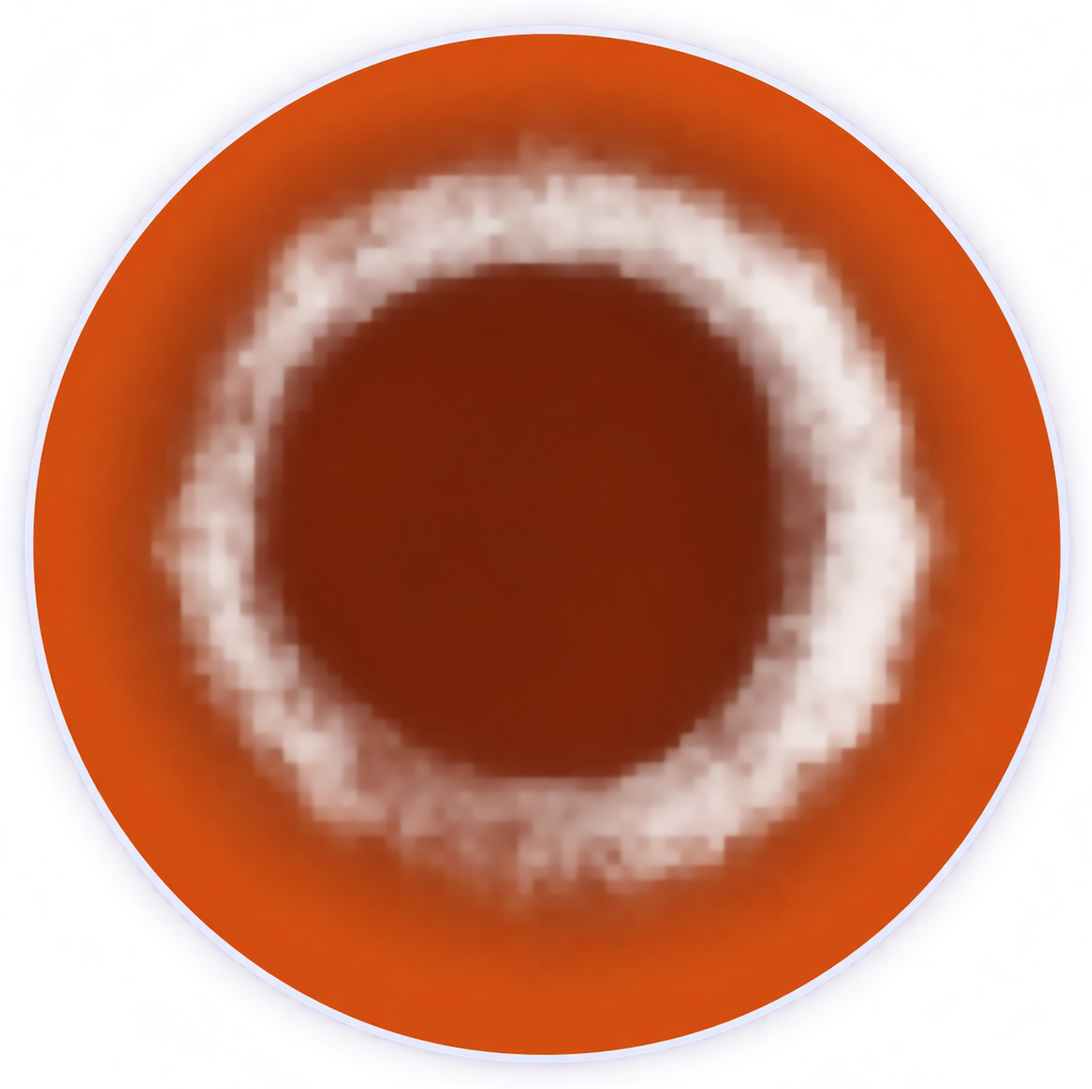
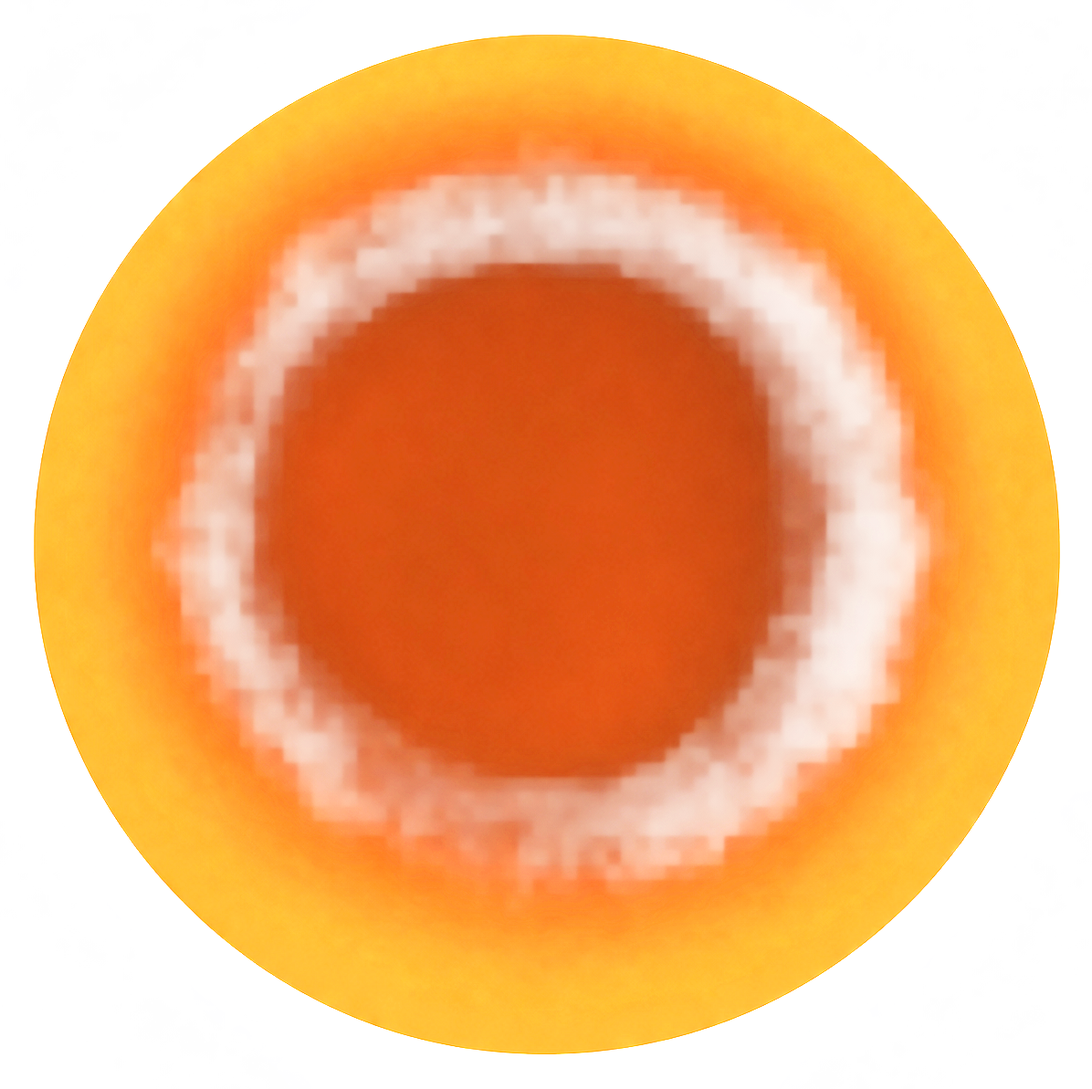
[D08-N] A-28-2 꼬리 둘 — 테두리 못 정했던 여섯 장 확정 + ui-dot 속 색 보정
UI 키트에서 9-slice 테두리를 못 정하고 미뤄 뒀던 여섯 장을 전부 정했다.
07시 세션이 ui-popup-title에 쓴 방법(알파를 열·행으로 훑어 띠가 일정해지는
구간을 찾는다)을 tools/scan_ui_border.py로 옮기고, 바둑판 바탕에 얹어 눈으로 봤다.

  ui-slot-a   (95, 95, 95, 95)      둥근 사각
  ui-slot-b   (88, 88, 88, 88)      둥근 사각
  ui-slot-s   (96, 108, 97, 190)    위쪽 보석 장식 때문에 위만 크다
  ui-tooltip  (106, 204, 104, 111)  아래 말풍선 꼬리 때문에 아래만 크다
  ui-tab-on   (160, 0, 153, 151)    아래가 직선으로 잘려 있어 0
  ui-tab-off  (153, 0, 148, 157)    같음

자동 측정이 틀렸던 진짜 이유는 가운데 장식이 아니라 테두리의 소프트 글로우였다.
빛이 바깥으로 번져서 거기서 판정이 멈추니 좌우 합이 그림 크기를 넘었다.

확인: GemRacer/91로 26장 다시 임포트 → execute_code로 여섯 장의 spriteBorder가
실제로 들어간 것 확인 → 9-slice를 흉내 내 정사각 120 · 가로 320x96 · 세로 120x260
세 크기로 뽑아 눈으로 봤다. 모서리·보석·꼬리 모두 안 찌그러진다.

ui-dot 속 색(#731F04 → #D94D0F)도 고쳤다. backlog에 적혀 있던 "Image.color로
곱한다"는 안 되는 방법이었다 — uGUI의 Image.color는 곱셈이라 색을 밝게 못 만든다.
tools/relight_sprite.py로 채널별 배수를 곱해 그림 자체를 고쳤고 check_alpha.py를 통과한다.

남은 진행 막대(ui-bar-frame·ui-bar-fill)는 트랙 높이를 키우는 레이아웃 결정이
먼저라 docs/decisions.md에 A/B/C안으로 올리고 backlog를 - [?]로 바꿨다.

씬은 열지 않았고 플레이도 안 했다. 코어 테스트 459 / 실패 0.

diff --git a/PlanetRacer/Assets/Editor/ArtImportSettings.cs b/PlanetRacer/Assets/Editor/ArtImportSettings.cs
@@ -108,12 +108,36 @@ namespace GemRacer.EditorTools
                 // `ui-btn-close`(X 단추)·`ui-badge-new`·`ui-dot`은 비율을 지켜 통째로 쓰고
                 // `ui-bar-fill`은 채우기(Filled)로 쓴다. 테두리를 넣으면 모양이 늘어난다.
                 //
-                // **측정이 못 믿을 값을 준 것들**(`ui-tooltip`·`ui-tab-on/off`·`ui-slot-a/b/s`):
-                // 좌우 또는 위아래 합이 그림 크기를 넘는다. (`ui-chip`은 10-16 05시,
-                // `ui-popup-title`은 10-16 07시 세션이 눈으로 보고 정해서 빠졌다 — 위 두 묶음.)
-                // 가운데에 장식(말풍선 꼬리·등급 테두리 돌기)이 있어서
-                // "가운데와 같아지는 첫 열" 판정이 거기서 멈춘다. ui-tab과 같은 처리를 한다 —
-                // **그 그림을 쓰는 화면을 배선하는 세션이 눈으로 보고 정한다.**
+                // --- 남아 있던 여섯 장 (2026-10-16 19시 Unity 배선 세션) ----------------
+                // 「측정이 못 믿을 값을 준 것들」로 미뤄 뒀던 마지막 묶음이다. 07시 세션이
+                // `ui-popup-title`에 쓴 방법(알파를 열·행으로 훑어 띠가 일정해지는 구간을 찾는다)을
+                // `tools/scan_ui_border.py`로 옮겨서 쟀고, 그 위에 그림을 실제로 눈으로 보고 정했다.
+                // measure_ui_border.py가 틀렸던 이유는 가운데 장식이 아니라 **테두리가 소프트 글로우**라
+                // 바깥으로 번지기 때문이다 — 번진 쪽에서 판정이 멈춰 좌우 합이 그림 크기를 넘었다.
+                //
+                // 넷은 둥근 사각이라 사방을 같은 값으로 둔다(기존 `ui-slot-c`가 804px에 67 =
+                // 8.3%인 것과 같은 비율이다). 둘은 가운데 장식 때문에 한쪽만 크다.
+                case "ui-slot-a":         return new Vector4(95f, 95f, 95f, 95f);    // 파란 테 둥근 사각
+                case "ui-slot-b":         return new Vector4(88f, 88f, 88f, 88f);    // 청록 테, 모양은 a와 같다
+
+                // ui-slot-s는 **위쪽 가운데에 보석 장식**이 하나 솟아 있다(y=0~80, x=473~612).
+                // 위 테두리를 190으로 잡아 보석과 위 두 귀를 통째로 넣는다 — 그래도 보석이
+                // 「위-가운데」 칸에 들어가니 칸이 가로로 길어지면 보석도 같이 늘어난다.
+                // 슬롯은 거의 정사각으로 쓰니 지금은 문제가 안 되지만, 가로로 긴 자리에 쓸 거면
+                // 보석을 따로 얹는 편이 낫다.
+                case "ui-slot-s":         return new Vector4(96f, 108f, 97f, 190f);
+
+                // ui-tooltip은 **아래 가운데에 말풍선 꼬리**가 달려 있다(몸통은 y=817까지, 꼬리가 923까지).
+                // 아래 테두리 204는 몸통 아래 모서리 + 꼬리를 함께 덮는 값이다. 보석과 같은 사정이라
+                // 말풍선이 가로로 넓어지면 꼬리도 넓어진다 — 꼬리 위치를 고정해야 하는 화면은
+                // 꼬리를 떼어 따로 얹는다.
+                case "ui-tooltip":        return new Vector4(106f, 204f, 104f, 111f);
+
+                // 탭 둘은 **위 모서리만 둥글고 아래는 직선으로 잘려 있다.** 그래서 아래는 0이다
+                // (기존 `ui-tab` 임시값 (120,4,120,4)을 이 둘이 대신한다 — 탭을 쓰는 화면이
+                // 생기면 `ui-tab`이 아니라 on/off 두 장을 쓴다).
+                case "ui-tab-on":         return new Vector4(160f, 0f, 153f, 151f);
+                case "ui-tab-off":        return new Vector4(153f, 0f, 148f, 157f);
                 default:                  return null;
             }
         }

diff --git a/tools/scan_ui_border.py b/tools/scan_ui_border.py
@@ -1,0 +1,96 @@
+# 9-slice 테두리를 알파 띠로 찾는다 (2026-10-16, A-28-2 「테두리 못 정한 그림 다섯」)
+#
+# measure_ui_border.py는 가운데 장식(말풍선 꼬리·등급 돌기·리본 매듭)에서 판정이 멈춰서
+# 좌우 합이 그림 크기를 넘는 값을 내놓는 장이 있다. 2026-10-16 07시 세션이 `ui-popup-title`을
+# 정할 때 쓴 방법이 더 잘 들어서 그걸 스크립트로 옮겼다 — **알파를 열별로 훑어
+# 띠 높이(위·아래 끝)가 일정해지는 구간**을 찾고, 그 바깥을 테두리로 잡는다.
+# 늘어나도 되는 곳은 "모양이 변하지 않는 평평한 구간"이라는 뜻이다.
+#
+#   python tools/scan_ui_border.py PlanetRacer/Assets/Resources/Art/UI/Kit/ui-tooltip.png ...
+#
+# 찍어 주는 것: 가장 긴 평평 구간, 거기서 나온 Vector4(left, bottom, right, top),
+# 그리고 열·행별 끝값을 20칸으로 줄인 표(눈으로 한 번 더 보라고).
+import sys
+
+from PIL import Image
+
+A_MIN = 40          # 이 위면 "있다"로 본다 (ui_alpha_map.py의 '+' 기준과 같게)
+
+
+def band(alpha, w, h, by_column):
+    """열(또는 행)마다 불투명 구간의 시작·끝을 돌려준다. 빈 줄은 None."""
+    out = []
+    n, m = (w, h) if by_column else (h, w)
+    for i in range(n):
+        lo, hi = None, None
+        for j in range(m):
+            v = alpha[i, j] if by_column else alpha[j, i]
+            if v > A_MIN:
+                if lo is None:
+                    lo = j
+                hi = j
+        out.append(None if lo is None else (lo, hi))
+    return out
+
+
+def longest_flat(bands, tol=1):
+    """끝값이 거의 그대로인 가장 긴 구간 (start, end) 을 찾는다. tol은 허용 흔들림(px)."""
+    best = (0, -1)
+    i = 0
+    n = len(bands)
+    while i < n:
+        if bands[i] is None:
+            i += 1
+            continue
+        lo, hi = bands[i]
+        j = i + 1
+        while j < n and bands[j] is not None \
+                and abs(bands[j][0] - lo) <= tol and abs(bands[j][1] - hi) <= tol:
+            j += 1
+        if j - 1 - i > best[1] - best[0]:
+            best = (i, j - 1)
+        i = j
+    return best
+
+
+def digest(bands, cells=20):
+    """끝값 표를 cells칸으로 줄여 찍는다."""
+    n = len(bands)
+    rows = []
+    for k in range(cells):
+        i = min(n - 1, k * n // cells)
+        b = bands[i]
+        rows.append("%4d:%s" % (i, "----" if b is None else "%d-%d" % b))
+    return "  ".join(rows)
+
+
+def main():
+    if len(sys.argv) < 2:
+        print("쓰는 법: python tools/scan_ui_border.py <png> [<png> ...]")
+        return 2
+    for path in sys.argv[1:]:
+        im = Image.open(path).convert("RGBA")
+        w, h = im.size
+        alpha = im.split()[3].load()
+
+        cols = band(alpha, w, h, True)
+        rows = band(alpha, w, h, False)
+        cl, cr = longest_flat(cols)      # x 방향 평평 구간 → 좌·우 테두리
+        rt, rb = longest_flat(rows)      # y 방향 평평 구간 → 위·아래 테두리
+
+        left, right = cl, w - 1 - cr
+        top, bottom = rt, h - 1 - rb     # PNG는 위가 y=0, Unity 테두리는 (왼,아래,오른,위)
+
+        print("== %s  %dx%d" % (path.split("/")[-1], w, h))
+        print("   열 평평 구간 x=%d~%d (%d칸)  → 왼 %d · 오른 %d" % (cl, cr, cr - cl + 1, left, right))
+        print("   행 평평 구간 y=%d~%d (%d칸)  → 위 %d · 아래 %d" % (rt, rb, rb - rt + 1, top, bottom))
+        ok = (left + right) < w and (top + bottom) < h
+        print("   Vector4(%df, %df, %df, %df)   %s"
+              % (left, bottom, right, top, "" if ok else "← 합이 크기를 넘는다. 눈으로 볼 것"))
+        print("   열 끝값: " + digest(cols))
+        print("   행 끝값: " + digest(rows))
+    return 0
+
+
+if __name__ == "__main__":
+    raise SystemExit(main())

diff --git a/tools/relight_sprite.py b/tools/relight_sprite.py
@@ -1,0 +1,61 @@
+# 그림의 바탕색을 원하는 색으로 끌어올린다 (2026-10-16, A-28-2 `ui-dot` 때문에 만들었다)
+#
+# GPT가 준 키트 그림 중에 속 색이 의도보다 어둡게 나온 장이 있다(`ui-dot`: #731F04,
+# 원하는 건 #D94D0F). backlog에는 "`Image.color`로 곱하라"고 적혀 있었지만 **uGUI의
+# `Image.color`는 곱셈이라 색을 밝게 만들 수 없다** — 어둡게만 된다. 그래서 그림 자체를 고친다.
+#
+#   python tools/relight_sprite.py <png> --from 731F04 --to D94D0F [--write]
+#
+# 채널별 배수(목표/현재)를 곱한다. 바탕색은 정확히 목표색이 되고, 이미 밝은 하이라이트는
+# 255에서 잘려 흰색으로 남는다(점 하나짜리 그림이라 이게 더 자연스럽다). 알파는 건드리지 않는다.
+import argparse
+
+from PIL import Image
+
+
+def hex2rgb(s):
+    s = s.lstrip("#")
+    return tuple(int(s[i:i + 2], 16) for i in (0, 2, 4))
+
+
+def main():
+    ap = argparse.ArgumentParser()
+    ap.add_argument("path")
+    ap.add_argument("--from", dest="src", required=True, help="지금 바탕색 (RRGGBB)")
+    ap.add_argument("--to", dest="dst", required=True, help="원하는 바탕색 (RRGGBB)")
+    ap.add_argument("--write", action="store_true", help="실제로 덮어쓴다. 없으면 미리보기만")
+    a = ap.parse_args()
+
+    src, dst = hex2rgb(a.src), hex2rgb(a.dst)
+    k = [dst[i] / max(1, src[i]) for i in range(3)]
+    print("배수 R×%.3f G×%.3f B×%.3f" % tuple(k))
+
+    im = Image.open(a.path).convert("RGBA")
+    r, g, b, al = im.split()
+    out = Image.merge("RGBA", (
+        r.point(lambda v: min(255, int(v * k[0] + 0.5))),
+        g.point(lambda v: min(255, int(v * k[1] + 0.5))),
+        b.point(lambda v: min(255, int(v * k[2] + 0.5))),
+        al))
+
+    w, h = im.size
+    px = out.load()
+    tot, n = [0, 0, 0], 0
+    for y in range(h // 2 - h // 8, h // 2 + h // 8):
+        for x in range(w // 2 - w // 8, w // 2 + w // 8):
+            pr, pg, pb, pa = px[x, y]
+            if pa > 200:
+                tot[0] += pr; tot[1] += pg; tot[2] += pb; n += 1
+    print("고친 뒤 속 평균 #%02X%02X%02X (원하던 것 #%02X%02X%02X)"
+          % (tot[0] // n, tot[1] // n, tot[2] // n, dst[0], dst[1], dst[2]))
+
+    if a.write:
+        out.save(a.path)
+        print("덮어썼다:", a.path)
+    else:
+        print("미리보기만 했다. 실제로 고치려면 --write")
+    return 0
+
+
+if __name__ == "__main__":
+    raise SystemExit(main())

diff --git a/docs/daily/2026-10-16.md b/docs/daily/2026-10-16.md
@@ -332,3 +332,48 @@
 ### 19:15 세션 (평일 야간)
 - 한 일: feedback `- [ ]` 없음. 18시 세션 이후 새 커밋이 없고 backlog 남은 항목(A-17·18·19·23·25~27)은 여전히 Unity 씬 배선·이미지가 필요해 코드 단독으로 할 일이 없다. 코드는 안 건드렸다.
 - 이어서 할 것: Unity 배선 세션에서 A-28-2 꼬리. 코드 단독 항목 바닥남 3회 연속(07시·18시·19시) — backlog가 사실상 비었다.
+### 19:0x Unity 배선 세션 — A-28-2 꼬리 둘 (테두리 여섯 장 · `ui-dot` 색)
+
+- **0절 표식은 이번에도 0건이었지만 할 일이 있었다.** `씬 배선은 Unity 세션 필요`는
+  `docs/backlog.md`·`docs/feedback.md` 둘 다 0건(걸리는 줄은 전부 지난 세션들의 「0건」 기록이다).
+  그런데 바로 앞 18:15 야간 세션이 **「다음 Unity 배선 세션에서 A-28-2 꼬리」**라고 넘겨 두었고,
+  남은 backlog(A-17·A-18·A-19·A-23·A-25~27)도 전부 배선·아트 대기다. 미루지 않고 그걸 집었다.
+- **시작할 때 작업 트리가 또 어긋나 있었다 — 07시 세션과 같은 일이다.** `git checkout -B claude/dev`가
+  `.git/HEAD.lock`을 못 지워 `fatal: unable to update HEAD`로 끝났고(HEAD 자체는 `e08f3e3`으로
+  옮겨졌다), 오늘 daily만 18:15 블록 네 줄이 빠진 옛 내용으로 남아 있었다. 이번엔 **PowerShell로
+  `.git` 아래 `*.lock` 두 개를 지우고**, 빠진 네 줄은 `git show HEAD:<경로> | tail -4 >> <경로>`로
+  이어 붙였다(`git checkout --`는 자동 승인 정책에 막힌다 — 덧붙이기는 지우기가 아니라서 통한다).
+  **이 사고가 오늘만 두 번째다.** 연결 폴더에 삭제 권한이 없는 한 매 세션 반복되니, 0절 다음에
+  `git status`를 꼭 한 번 보고 시작할 것.
+- **테두리를 못 정했던 여섯 장을 전부 정했다.** 07시 세션이 `ui-popup-title`에 쓴 방법(알파를
+  열·행으로 훑어 띠가 일정해지는 구간을 찾는다)을 `tools/scan_ui_border.py`로 옮기고, 여섯 장을
+  바둑판 바탕에 얹어 눈으로 봤다. **자동 측정이 틀렸던 진짜 이유는 가운데 장식이 아니라 테두리의
+  소프트 글로우였다** — 빛이 바깥으로 번져 거기서 판정이 멈추니 좌우 합이 그림 크기를 넘었다.
+  `ui-slot-a`(95 사방) · `ui-slot-b`(88 사방) · `ui-slot-s`(96,108,97,**190** — 위쪽 보석 장식) ·
+  `ui-tooltip`(106,**204**,104,111 — 아래 말풍선 꼬리) · `ui-tab-on`(160,**0**,153,151) ·
+  `ui-tab-off`(153,**0**,148,157 — 탭 둘은 아래가 직선으로 잘려 있다).
+- **확인을 두 겹으로 했다.** `GemRacer/91`로 26장 다시 임포트(로그 "26장") → `execute_code`로 여섯 장의
+  `spriteBorder`가 실제로 들어갔는지 읽어 확인 → 9-slice를 그대로 흉내 내 **정사각 120 · 가로 320x96 ·
+  세로 120x260** 세 크기로 뽑아 눈으로 봤다. 세 크기 모두 모서리·보석·꼬리가 안 찌그러진다.
+  **처음 한 번은 잘못 봤다** — 원본 해상도(999px)에 테두리 95를 넣고 120px 칸에 그려서 전부
+  마름모로 뭉개졌다. 유니티는 임포트에서 256으로 줄이므로 테두리도 24쯤이 된다. 같은 실수를 할
+  다음 세션을 위해 적어 둔다: **미리보기는 반드시 임포트된 크기(256)로 그릴 것.**
+- **`ui-dot` 속 색을 고쳤다 — backlog에 적혀 있던 방법은 안 되는 방법이었다.** 「`Image.color`로
+  곱한다」고 돼 있었는데 uGUI의 `Image.color`는 **곱셈이라 색을 밝게 못 만든다**(`#731F04` →
+  `#D94D0F`는 밝아지는 방향이다). 그래서 `tools/relight_sprite.py`를 만들어 그림 자체를 고쳤다
+  (채널별 R×1.89 G×2.57 B×3.75). 속 평균 `#731E04` → `#DA4E0F`, 하이라이트는 255에서 잘려
+  흰 점으로 남는다. `check_alpha.py` 통과(투명 22%, 모서리 0). **다시 뽑을 필요는 없어졌지만**,
+  이미지 세션이 이 장을 새로 뽑으면 보정이 날아가니 그때는 프롬프트에 `#D94D0F`를 박아야 한다.
+- **남은 하나는 Tifania 결정으로 올렸다.** 진행 막대(`ui-bar-frame`·`ui-bar-fill`) 두 장만 쓸 자리가
+  없는데, 지금 트랙이 14px(레이스 도착 연출)·10px(화물칸 게이지)이라 키트 막대의 둥근 끝이
+  찌그러진다. `docs/decisions.md`에 **「A-28-2 진행 막대를 어디에 쓸까」** A/B/C안으로 올렸다
+  (A: 트랙을 22~24px로 키운다 / B: 막대 두 장을 안 쓴다 / C: 얇은 막대용으로 한 장 더 뽑는다).
+  추천은 A안이지만 레이스 출전 화면 세 줄이 밀리는지는 눈으로 봐야 한다. backlog 항목은 `- [?]`로 바꿨다.
+- **씬은 열지 않았고 플레이도 안 했다.** 이번 건은 임포트 설정과 그림 파일만 바뀌어서 씬에 손댈 것이
+  없었다. 그래서 `Pretendard-Regular SDF.asset`도 그대로다(플레이를 안 했으니 글리프 표가 안 날아간다).
+  다만 **이 세션이 Unity를 직접 띄웠으니 닫은 뒤에 한 번 더 본다**(CLAUDE.md 10-14 항목).
+- **코어 테스트 459 / 실패 0** (PC PowerShell에서 `dotnet run`. device_bash 쪽 VM에는 dotnet이 없다).
+- **웹에서 볼 변화**: 거의 없다. 여섯 장 모두 아직 어느 화면도 안 쓰고, `ui-dot`도 붙은 자리가 없다.
+  **다음에 그 그림들을 쓰는 화면이 생길 때 비로소 보인다.** 확인 주소를 열어 볼 필요는 없는 차례다.
+- 이어서 할 것: A-28-2는 진행 막대 결정 하나만 남았다(Tifania). 그 밖의 Unity 배선 거리는
+  A-18(행성 선택·워프) · A-19(컷신) · A-26(타이틀 화면) · A-27(레이싱 씬 2D)이고 셋은 아트가 먼저다.

diff --git a/docs/backlog.md b/docs/backlog.md
@@ -668,18 +668,40 @@ Tifania(10-07): "UI 도 gpt이미지 통해서 생성해서 넣자".
             플레이 예외 0, 세로(540x960) 스크린샷 둘(오프라인 보상·제작) 확인, 오버레이 열아홉 그대로,
             `MainHudUgui` 패널 칸 빈 곳 0. **화면 부트스트랩을 다시 누르면 그 화면 리본은 사라진다 —
             `GemRacer/45`를 한 번 더 누르면 된다**(멱등).
-      - [ ] **테두리를 못 정한 그림 다섯**(`ui-tooltip`·`ui-tab-on/off`·`ui-slot-a/b/s`).
-            자동 측정이 좌우 또는 위아래 합이 그림 크기를 넘는 값을 줬다 — 가운데 장식(리본 매듭·
-            말풍선 꼬리·등급 테두리 돌기)에서 판정이 멈춘다. `ui-tab`과 같은 처리다: **그 그림을 쓰는 화면을
-            배선하는 세션이 눈으로 보고 정한다.**
+      - [x] **테두리를 못 정한 그림 다섯 — 2026-10-16 19시 Unity 배선 세션이 여섯 장 다 정했다.**
+            07시 세션이 `ui-popup-title`에 쓴 「알파를 열·행으로 훑어 띠가 일정해지는 구간을 찾는다」를
+            `tools/scan_ui_border.py`로 옮기고, 여섯 장을 바둑판 바탕에 얹어 **눈으로 보고** 정했다.
+            `ui-slot-a` (95,95,95,95) · `ui-slot-b` (88,88,88,88) · `ui-slot-s` (96,108,97,190) ·
+            `ui-tooltip` (106,204,104,111) · `ui-tab-on` (160,0,153,151) · `ui-tab-off` (153,0,148,157).
+            **자동 측정이 틀렸던 진짜 이유는 가운데 장식이 아니라 테두리의 소프트 글로우였다** —
+            빛이 바깥으로 번져서 거기서 판정이 멈추고 좌우 합이 그림 크기를 넘었다. 넷은 둥근 사각이라
+            사방을 같은 값으로 뒀고(`ui-slot-c`의 8.3%와 같은 비율), `ui-slot-s`는 위쪽 보석 장식 때문에
+            위만 190, `ui-tooltip`은 아래 말풍선 꼬리 때문에 아래만 204다. 탭 둘은 아래가 직선으로
+            잘려 있어 아래 0이다(기존 `ui-tab` 임시값을 이 둘이 대신한다).
+            **확인**: `GemRacer/91`로 26장 다시 임포트 → `execute_code`로 여섯 장의 `spriteBorder`가
+            실제로 들어간 것 확인 → 9-slice를 그대로 흉내 내서 정사각 120 · 가로 320x96 · 세로 120x260
+            세 크기로 뽑아 눈으로 봤다(`Assets/Screenshots/a28-2-kit-slice-test.png`, 커밋 안 됨).
+            세 크기 모두 모서리·보석·꼬리가 안 찌그러진다.
+            **한 가지 남는 흠**(테두리 문제가 아니라 그림 자체): `ui-slot-b`와 `ui-tab-on`은 속에
+            너덜너덜한 어두운 얼룩이 들어 있어서 늘리면 그게 같이 번진다. 쓰는 화면이 생겼을 때
+            거슬리면 그 두 장만 다시 뽑으면 된다.
             **`ui-chip`은 2026-10-16 05시 세션이 정했다**(`270, 0, 150, 0` — 「칩 왼쪽 보석」으로 적혀 있던
             것은 보석이 아니라 **아이콘이 들어앉는 홈**이었다). 일곱에서 여섯으로 줄었다.
             **`ui-popup-title`은 10-16 07시 세션이 정했다**(`125, 0, 124, 0`). 알파를 열별로 훑어
             띠 높이가 일정해지는 지점(x=125 ~ x=1100)을 찾았다 — 눈대중보다 이 쪽이 빠르고 정확했으니
             남은 다섯도 같은 방법을 먼저 써 볼 것. 여섯에서 다섯으로 줄었다.
-      - [ ] **`ui-dot` 속 색이 어둡다**(`#731F04`, 원하는 건 `#D94D0F`). A-28-1이 넘긴 그대로다 —
-            알림 점을 붙이는 세션이 `Image.color`로 곱하거나 한 장 다시 뽑는다.
-      - [ ] **진행 막대(`ui-bar-frame`·`ui-bar-fill`)는 아직 자리가 없다.** 레이스 출전 화면의 도착 연출
+      - [x] **`ui-dot` 속 색 — 2026-10-16 19시 Unity 배선 세션이 그림을 직접 고쳤다.**
+            **여기 적혀 있던 「`Image.color`로 곱한다」는 안 되는 방법이었다** — uGUI의 `Image.color`는
+            곱셈이라 색을 어둡게만 할 수 있고 `#731F04`를 `#D94D0F`로 **밝게** 올릴 수가 없다.
+            그래서 `tools/relight_sprite.py`(새로 만듦)로 채널별 배수(R×1.89 G×2.57 B×3.75)를 곱해
+            그림 자체를 고쳤다. 속 평균이 `#731E04` → `#DA4E0F`(목표 `#D94D0F`)가 됐고
+            하이라이트는 255에서 잘려 흰 점으로 남는다. `check_alpha.py` 통과(투명 22%, 모서리 0).
+            다시 뽑을 필요는 없어졌다 — 이미지 세션이 이 장을 새로 뽑으면 이 보정이 날아가니
+            뽑게 되면 프롬프트에 속 색을 `#D94D0F`로 박아 둘 것.
+      - [?] **진행 막대(`ui-bar-frame`·`ui-bar-fill`)는 아직 자리가 없다 — Tifania 결정 대기.**
+            2026-10-16 19시 세션이 `docs/decisions.md`에 「A-28-2 진행 막대를 어디에 쓸까」로
+            A/B/C안을 올렸다(요지: 트랙 높이를 22~24px로 키울지). **이 묶음에서 이것 하나만 남았다.**
+            아래는 10-13 03시 세션이 보류하면서 적어 둔 원인 그대로다. 레이스 출전 화면의 도착 연출
             막대(`anim-track-{i}`·`anim-fill-{i}`)가 키트 막대를 쓸 첫 자리인데, 10-13 03시 세션이 보류했다.
             이유 둘: (1) 트랙 높이가 **14px**뿐이라 `ui-bar-frame`의 위아래 테두리 합(256분의 126)이
             들어갈 자리가 없다 — `SliceMultiplier`가 칸의 90%로 눌러 주긴 하지만 둥근 끝이 찌그러진다.

diff --git a/docs/decisions.md b/docs/decisions.md
@@ -1355,3 +1355,28 @@ A/B/C는 서로 다른 축이라 조합해서 고를 수 있다(예: A안 + C안
 - **B안 — 던전용 채굴을 따로 돌린다(현재 행성을 안 바꿈).** 가장 안전하지만 채굴 시뮬레이터 호출부를 하나 더 만든다.
 
 추천은 **① A안, ② B안** — 둘 다 "던전이 본 진행을 건드리지 않는다"는 쪽이다. 정해지면 밤 세션이 코드로 붙인다.
+
+## 판단 대기 — A-28-2 진행 막대를 어디에 쓸까 (2026-10-16 19시 Unity 배선 세션)
+
+UI 키트 20장 중 **`ui-bar-frame`·`ui-bar-fill` 두 장만 아직 쓸 자리가 없다.** 다른 열여덟 장은
+전부 화면에 붙었고 「회색 상자 0」도 이미 만족한다. 막대만 남은 이유가 둘인데, 하나는 결정이 필요하다.
+
+**① 지금 있는 막대들이 너무 얇다 — 키울까**
+키트 막대는 위아래 테두리가 256분의 126이라 **14px짜리 칸에 넣으면 둥근 끝이 찌그러진다.**
+해당하는 곳은 레이스 출전 화면의 도착 연출 막대(`anim-track-*`, 14px)와 HUD 화물칸 게이지
+(`cargo-gauge-track`, 10px)다.
+
+- **A안 — 트랙 높이를 22~24px로 키우고 키트 막대를 쓴다.** 키트가 통일되고 막대가 또렷해진다.
+  **대가**: 레이스 출전 화면의 코스 세 줄이 줄당 8~10px씩 높아진다. 세로 540x960에서
+  한 줄이 화면 밖으로 밀릴 수 있어 줄 간격을 같이 줄여야 한다.
+- **B안 — 지금 높이를 그대로 두고 막대 두 장을 안 쓴다.** 손댈 것이 없다.
+  **대가**: 키트 20장 중 2장이 영영 안 쓰인다. 막대만 단색이라 화면에서 눈에 띈다.
+- **C안 — 얇은 막대용으로 한 장 더 뽑는다**(위아래 테두리가 얕은 버전).
+  **대가**: 이미지 세션 한 번. 키트에 비슷한 그림이 두 벌이 된다.
+
+추천은 **A안** — 14px·10px은 모바일 세로에서 어차피 좀 가늘다. 다만 레이아웃이 밀리는지는
+붙여 보고 Tifania가 눈으로 봐야 한다.
+
+**② 채우기 칸에 그림을 얹는 함수가 따로 필요하다**(이건 결정이 아니라 그냥 할 일)
+`anim-fill`은 `Image.Type.Filled`로 채우는 칸인데 `UiSkin.ApplySliced`가 `Sliced`로 바꿔 버려서
+그대로 쓰면 연출이 깨진다. ①이 A안이나 C안으로 정해지면 `ApplyFilled`를 하나 만들면서 같이 한다.
